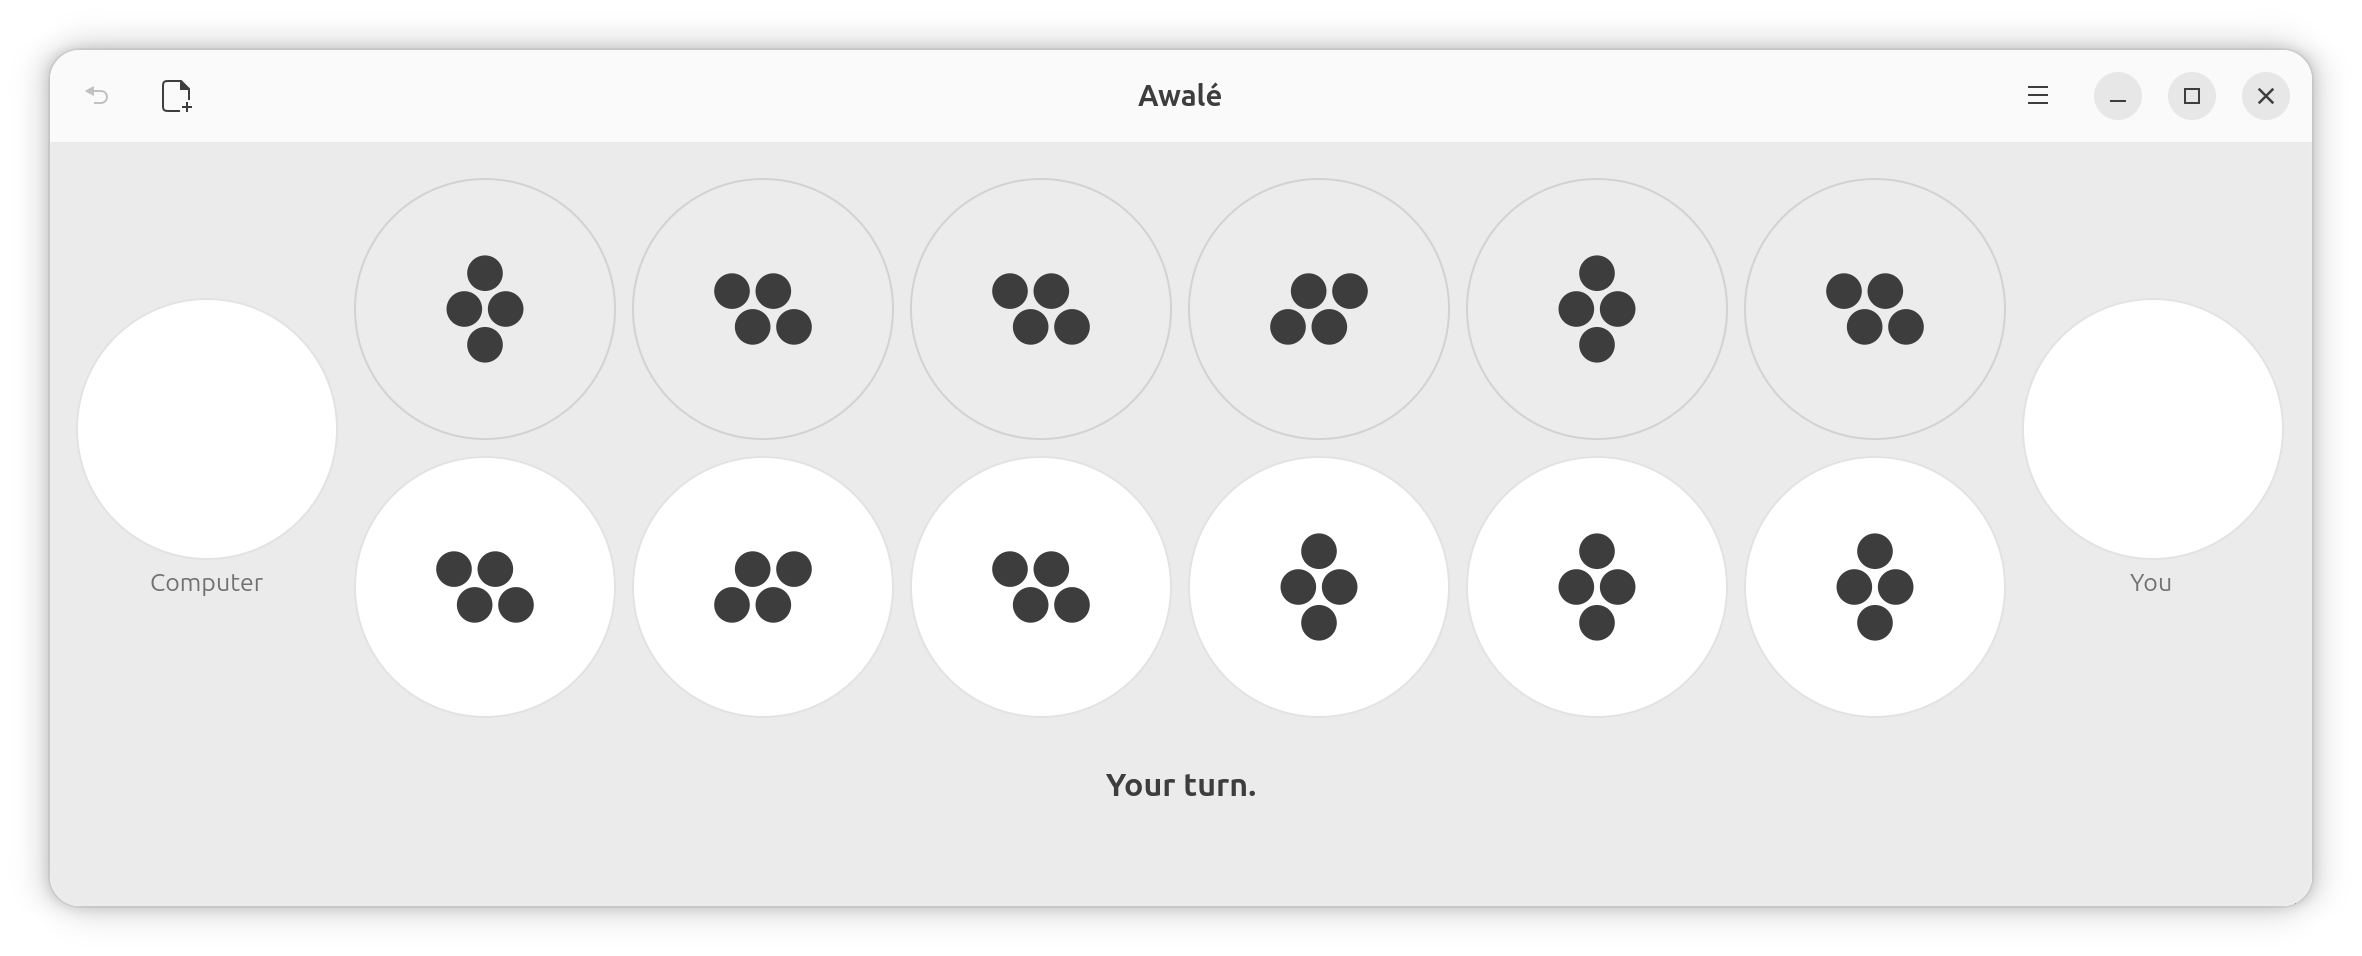
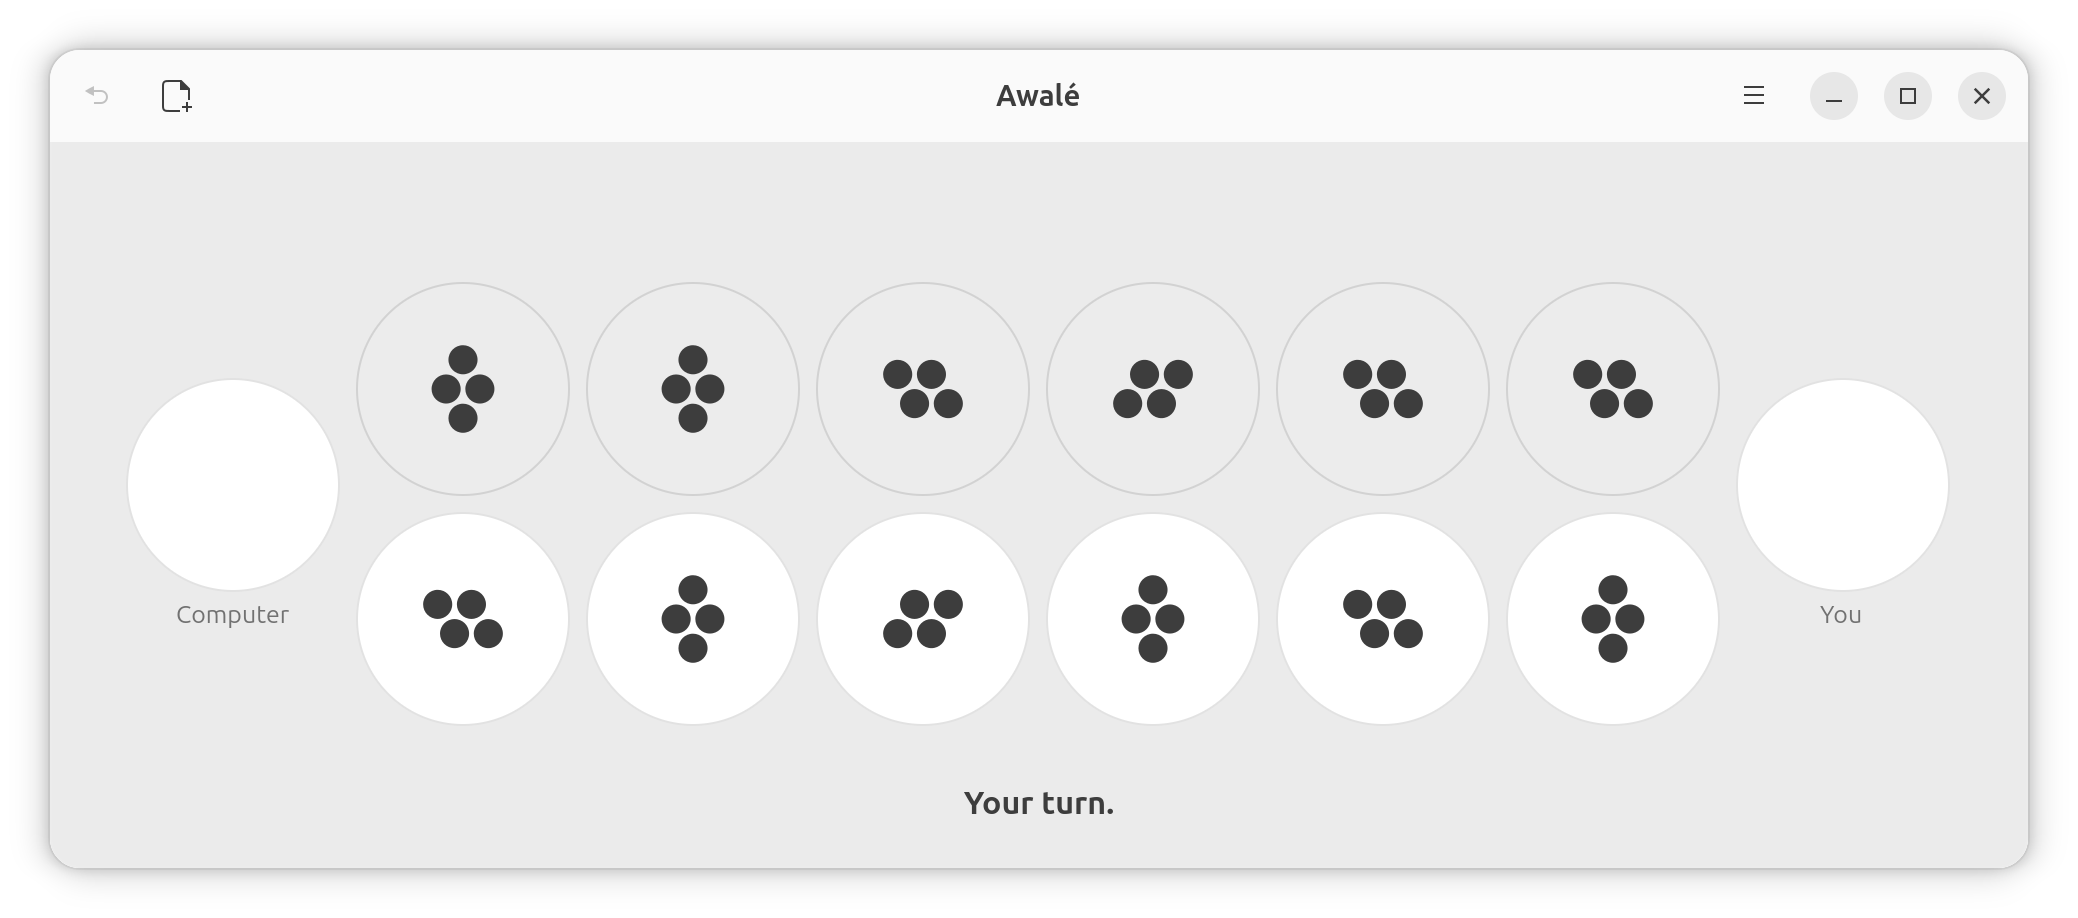
Put the advice above the board and centre the pits
The learning mode sentence now reads above the two rows and whose turn
it is below them. Both messages reserve the same height whether they say
anything or not, which is what holds the pits in the middle of the
window: they no longer move as messages come and go.

The height sits on the labels rather than on a box around them, so a
short message stays centred in its band instead of riding along the top,
and it is down to two lines of the smaller face rather than the larger
band that left the board looking high.

Turning learning mode off now clears the sentence with the star it
explains, rather than leaving it on screen until the next move.

diff --git a/src/ui/style.css b/src/ui/style.css
@@ -110,11 +110,14 @@
 }
 
 /*
- * The message area keeps its height whether or not there is anything to say,
- * so the board never jumps when a tip appears or goes.
+ * The two messages, one above the board and one below it, each hold this
+ * height whether or not there is anything to say. Reserving the same space on
+ * both sides is what holds the pits in the middle of the window, and it means
+ * the board never jumps when a message appears or goes. Two lines of the
+ * smaller face fit, which is as long as either message is allowed to run.
  */
 .tips {
-  min-height: 58px;
+  min-height: 40px;
 }
 
 .status {
